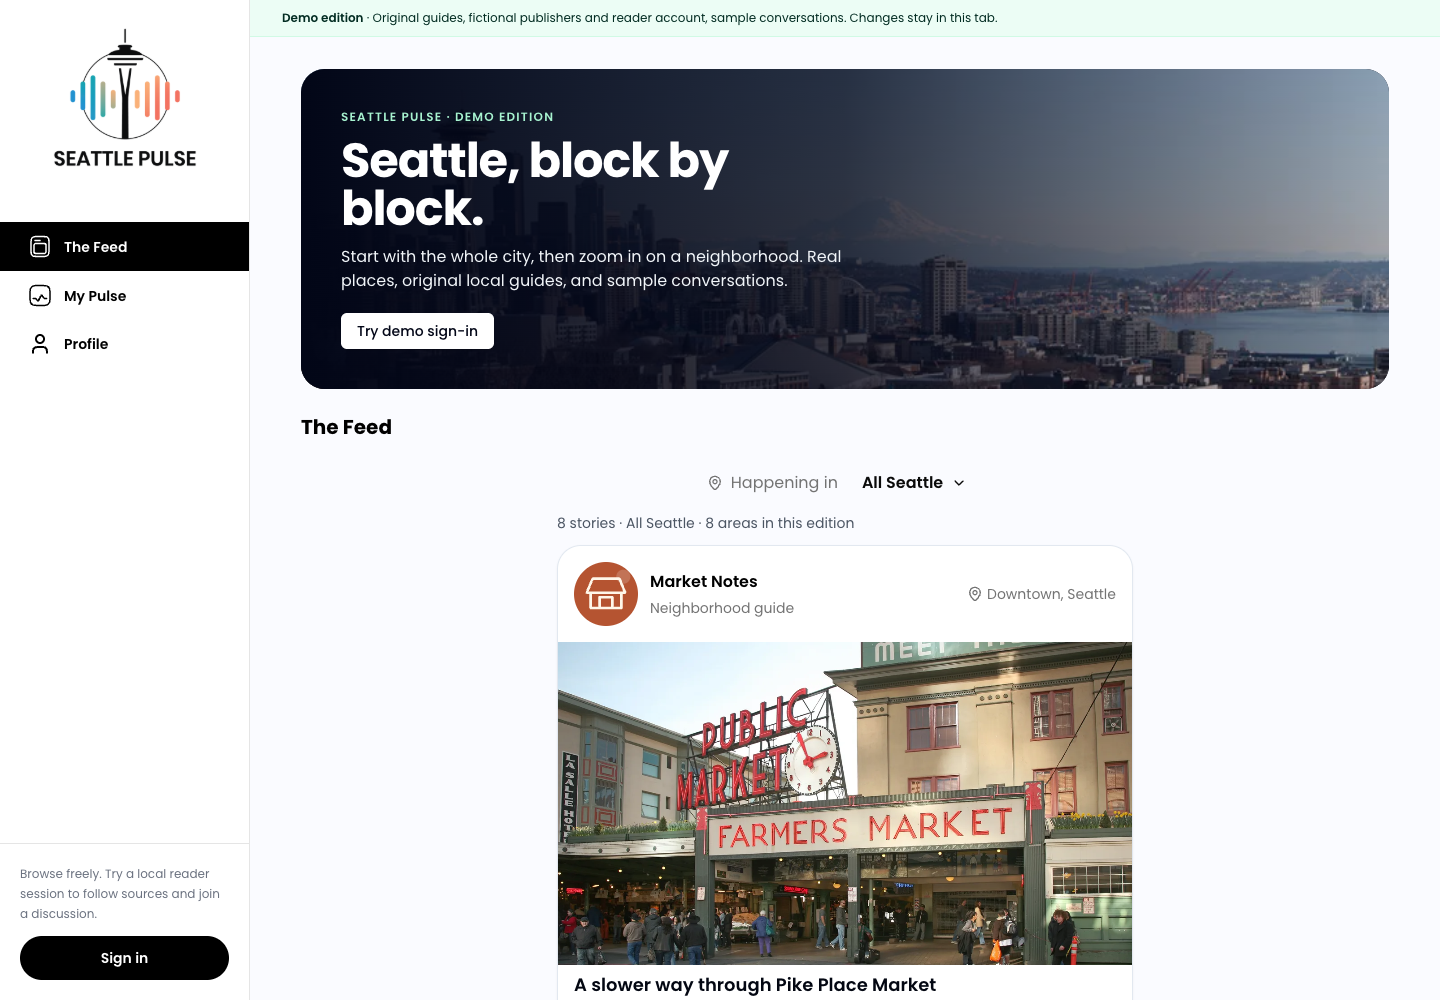
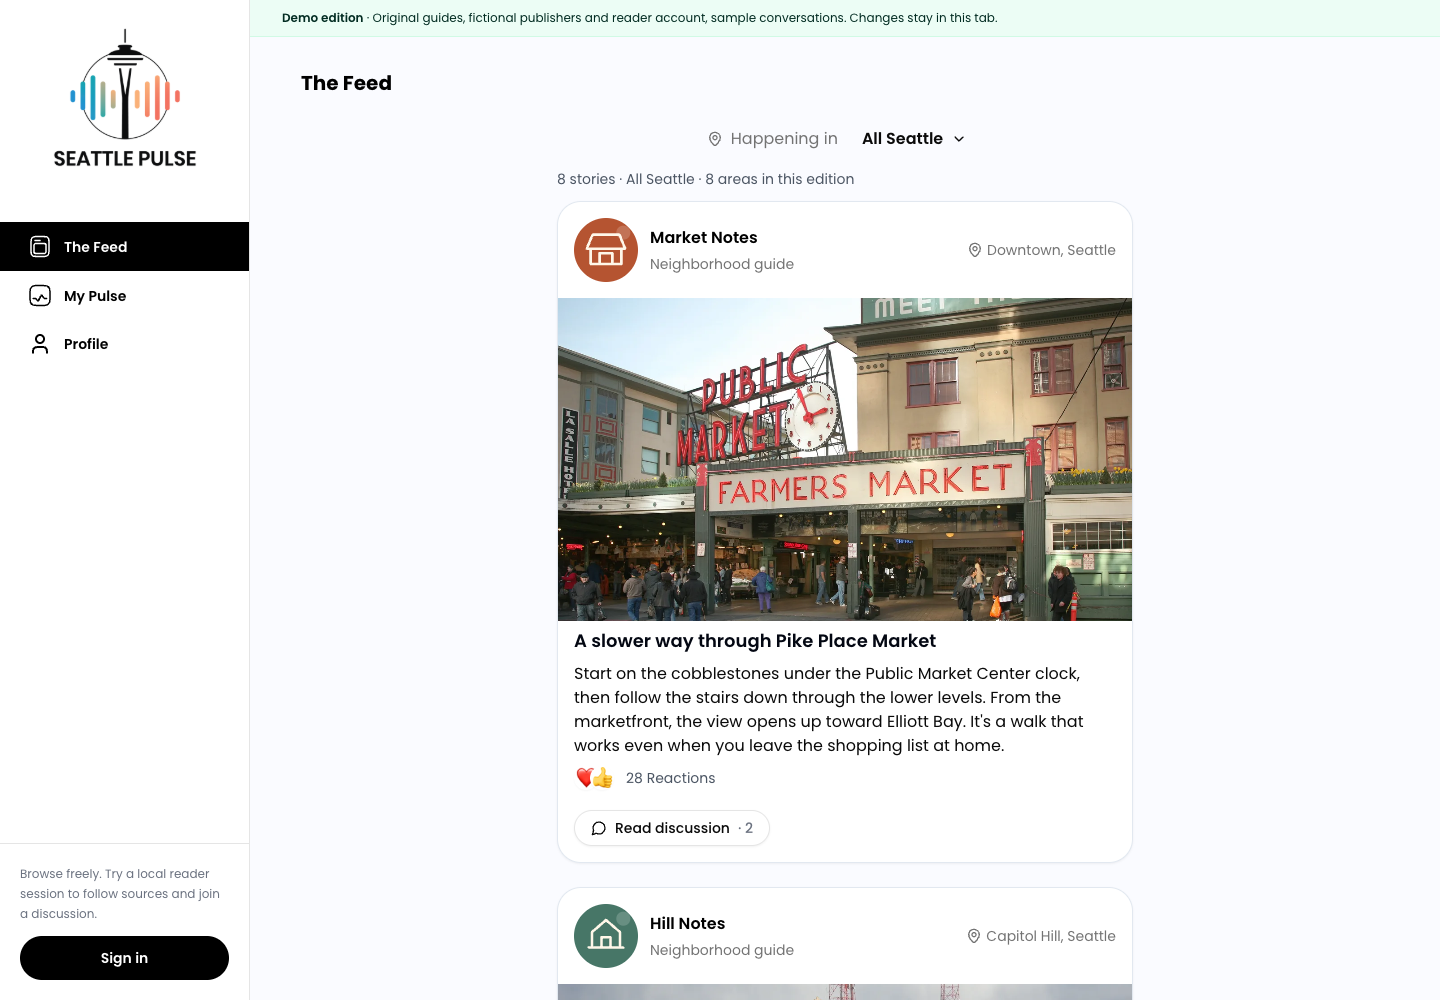
Restore the original feed-first demo layout

diff --git a/frontend/app/demo/demo-feed.tsx b/frontend/app/demo/demo-feed.tsx
@@ -1,40 +1,21 @@
 "use client";
 
-import Image from "next/image";
-import Link from "next/link";
 import { usePosts } from "@/app/hooks/use-posts";
 import NavBar from "@/components/nav-bar";
-import { Button } from "@/components/ui/button";
 import { demoNeighborhoods } from "./fixtures";
 import { demoPhotography, photoCredit } from "./photography";
-import { useDemoSession } from "./demo-session";
 import { DemoStoryFeed } from "./demo-story-feed";
 
 export function DemoFeed() {
   const { posts, loading, locationLoading, location, handleLocationChange } = usePosts("Seattle");
-  const { ready, isSignedIn, reader } = useDemoSession();
   const feedLabel = location === "Seattle" ? "All Seattle" : location;
 
   return (
     <div className="mx-auto w-full max-w-6xl px-4 pb-10 pt-4 md:px-8 md:pt-8">
-      <section className="relative isolate mb-6 flex min-h-64 items-end overflow-hidden rounded-3xl bg-slate-950 p-6 text-white sm:min-h-72 md:p-10" aria-label="About this demo">
-        <Image src="/demo/seattle-skyline.webp" alt="Seattle skyline and Mount Rainier from Kerry Park" fill priority sizes="(max-width: 768px) 100vw, 1152px" className="-z-20 object-cover object-center" />
-        <div aria-hidden="true" className="absolute inset-0 -z-10 bg-gradient-to-r from-slate-950 via-slate-950/75 to-slate-950/15" />
-        <div className="max-w-lg">
-          <p className="text-xs font-semibold uppercase tracking-widest text-emerald-200">Seattle Pulse · Demo edition</p>
-          <h1 className="mt-3 text-4xl font-bold tracking-tight sm:text-5xl">Seattle, block by block.</h1>
-          <p className="mt-3 text-sm leading-6 text-slate-100 sm:text-base">Start with the whole city, then zoom in on a neighborhood. Real places, original local guides, and sample conversations.</p>
-          <div className="mt-5 flex flex-wrap items-center gap-3">
-            {ready && isSignedIn ? <p role="status" className="text-sm font-medium text-emerald-200">Welcome back, {reader.first_name} · demo reader</p> : (
-              <Button asChild className="bg-white text-slate-950 hover:bg-emerald-100"><Link href="/auth/login/">Try demo sign-in</Link></Button>
-            )}
-          </div>
-        </div>
-      </section>
-
       {loading ? <p role="status" className="p-8 text-sm text-gray-600">Loading the Seattle feed…</p> : <>
         <NavBar title="The Feed" location={location} onLocationChange={handleLocationChange}
           showSearch={false} showNotification={false} showMessage={false} />
+        <h1 className="sr-only md:hidden">The Feed</h1>
         <div aria-live="polite" className="mx-auto mb-3 max-w-xl text-sm text-gray-600">
           {locationLoading ? "Loading neighborhood…" : `${posts.length} ${posts.length === 1 ? "story" : "stories"} · ${feedLabel} · ${demoNeighborhoods.length - 1} areas in this edition`}
         </div>

diff --git a/frontend/cypress/e2e/demo-walkthrough.cy.ts b/frontend/cypress/e2e/demo-walkthrough.cy.ts
@@ -94,6 +94,14 @@ describe("Browsable portfolio product", () => {
       activeDestination("The Feed", /^\/$/);
       cy.get('[aria-label="Choose neighborhood"]').should("contain.text", "All Seattle");
       cy.get('[data-cy="post-card"]').should("have.length", 8);
+      cy.get('[aria-label="About this demo"]').should("not.exist");
+      cy.contains("Seattle, block by block.").should("not.exist");
+      cy.get('[data-cy="post-card"]').first().find('[data-cy="open-discussion"]')
+        .should("be.visible").and(($title) => {
+          const bounds = $title[0].getBoundingClientRect();
+          expect(bounds.top, "first story starts in the initial viewport").to.be.at.least(0);
+          expect(bounds.bottom, "first story title fits above the fold").to.be.at.most(viewport.height);
+        });
       cy.get('[data-cy="post-card"]').then(($cards) => {
         const areas = $cards.toArray().map(card => card.textContent?.match(/(?:Downtown|Capitol Hill|Ballard|U District|Wallingford|West Seattle|Queen Anne|Seward Park), Seattle/)?.[0]);
         expect(new Set(areas).size, "eight distinct Seattle areas").to.equal(8);

diff --git a/docs/DEPLOYMENT.md b/docs/DEPLOYMENT.md
@@ -4,7 +4,7 @@
 
 The expanded product is delivered in [PR #1](https://github.com/jeffreymutethia/Seattle-Pulse/pull/1), on `feat/portfolio-demo`.
 
-**Account-based Vercel deployment needs login.** Plugin discovery found Vercel available but not connected, and CLI `65.12.1` reported **Logged out**. Its dry-run inspection required login, but the actual `deploy --temporary` command successfully published the static export anonymously. The time-limited preview is **https://sonic-comet-ybiyy18.tmp.now**, deployment `dpl_9kVMwCn7evigDuJ66dG8oks6JBjL`, expiring **November 9, 2026 at 13:17 UTC**. It is an expiring review URL, not a lasting portfolio address.
+**Account-based Vercel deployment needs login.** Plugin discovery found Vercel available but not connected, and CLI `65.12.1` reported **Logged out**. Its dry-run inspection required login, but the actual `deploy --temporary` command successfully published the static export anonymously. The time-limited preview is **https://rapid-rowan-xw1wfsb.tmp.now**, deployment `dpl_6eHWvW43hnz6JXVV2Ebpe1LZR6cp`, expiring **November 9, 2026 at 14:22 UTC**. It is an expiring review URL, not a lasting portfolio address.
 
 The README's stable public URL and GitHub About link still point to the existing citywide Site. The account owner can deploy a lasting Vercel project with the settings below; no private claim URL or credential is stored in this repository.
 
@@ -53,12 +53,13 @@ On a host that inherits `ELECTRON_RUN_AS_NODE`, prefix with `env -u ELECTRON_RUN
 
 ## Verified release
 
-The local production-export journey passed **1/1** at both viewport sizes. The same full journey also passed **1/1 in 14.8 seconds** against the temporary public Vercel URL, with no API responses mocked. The regular Next.js production build, static export, full TypeScript check, focused lint of demo modules, Docker Compose configuration and backend syntax compilation also passed.
+The local production-export journey passed **1/1** at both viewport sizes. The same full journey also passed **1/1 in 17 seconds** against the temporary public Vercel URL, with no API responses mocked. The regular Next.js production build, static export, full TypeScript check, focused lint of demo modules, Docker Compose configuration and backend syntax compilation also passed.
 
 The anonymous preview publishes only the already-built `frontend/demo/out` directory using `vercel deploy --temporary --yes --json --cwd demo/out`. It does not establish an account-linked Vercel project. The checked-in `frontend/vercel.json` is the starting configuration for the lasting account-based deployment described above.
 
 The browser test runs against the production static export, locally and at the temporary public Vercel preview, using Chrome at **1440 × 1000** and **390 × 844**, each starting with fresh guest storage. Application errors are test failures. The single blocking journey covers:
 
+- The original feed-first layout: navigation, neighborhood selector and story cards, with the first story title visible immediately on desktop and mobile.
 - All Seattle with eight areas and eight distinct, consistently reused publisher images.
 - Neighborhood filtering, changed stories, guide details and sample discussion.
 - The original sign-in artwork, guest back-to-browsing path, and Continue as demo reader.

diff --git a/README.md b/README.md
@@ -4,7 +4,7 @@ Citywide feeds bury the stories that matter a few blocks away. Seattle Pulse bri
 
 **[Live citywide edition](https://seattle-pulse-demo.jeffreymutethia.chatgpt.site/)** · **[Browsable product update — PR #1](https://github.com/jeffreymutethia/Seattle-Pulse/pull/1)** · [Engineering walkthrough](docs/ENGINEERING.md) · [Verification and Vercel setup](docs/DEPLOYMENT.md)
 
-The expanded product has a [temporary Vercel preview](https://sonic-comet-ybiyy18.tmp.now), expiring **November 9, 2026 at 13:17 UTC**. A lasting Vercel deployment requires account login, so the stable public link above still opens the earlier citywide edition. [Deploy the expanded build](docs/DEPLOYMENT.md#deploy-on-vercel) with the checked-in settings; replace the stable link after verifying that deployment.
+The expanded product has a [temporary Vercel preview](https://rapid-rowan-xw1wfsb.tmp.now), expiring **November 9, 2026 at 14:22 UTC**. A lasting Vercel deployment requires account login, so the stable public link above still opens the earlier citywide edition. [Deploy the expanded build](docs/DEPLOYMENT.md#deploy-on-vercel) with the checked-in settings; replace the stable link after verifying that deployment.
 
 <img src="docs/screenshots/product/desktop-feed.png" alt="Seattle Pulse citywide feed with the original product navigation and neighborhood selector" width="900">
 
